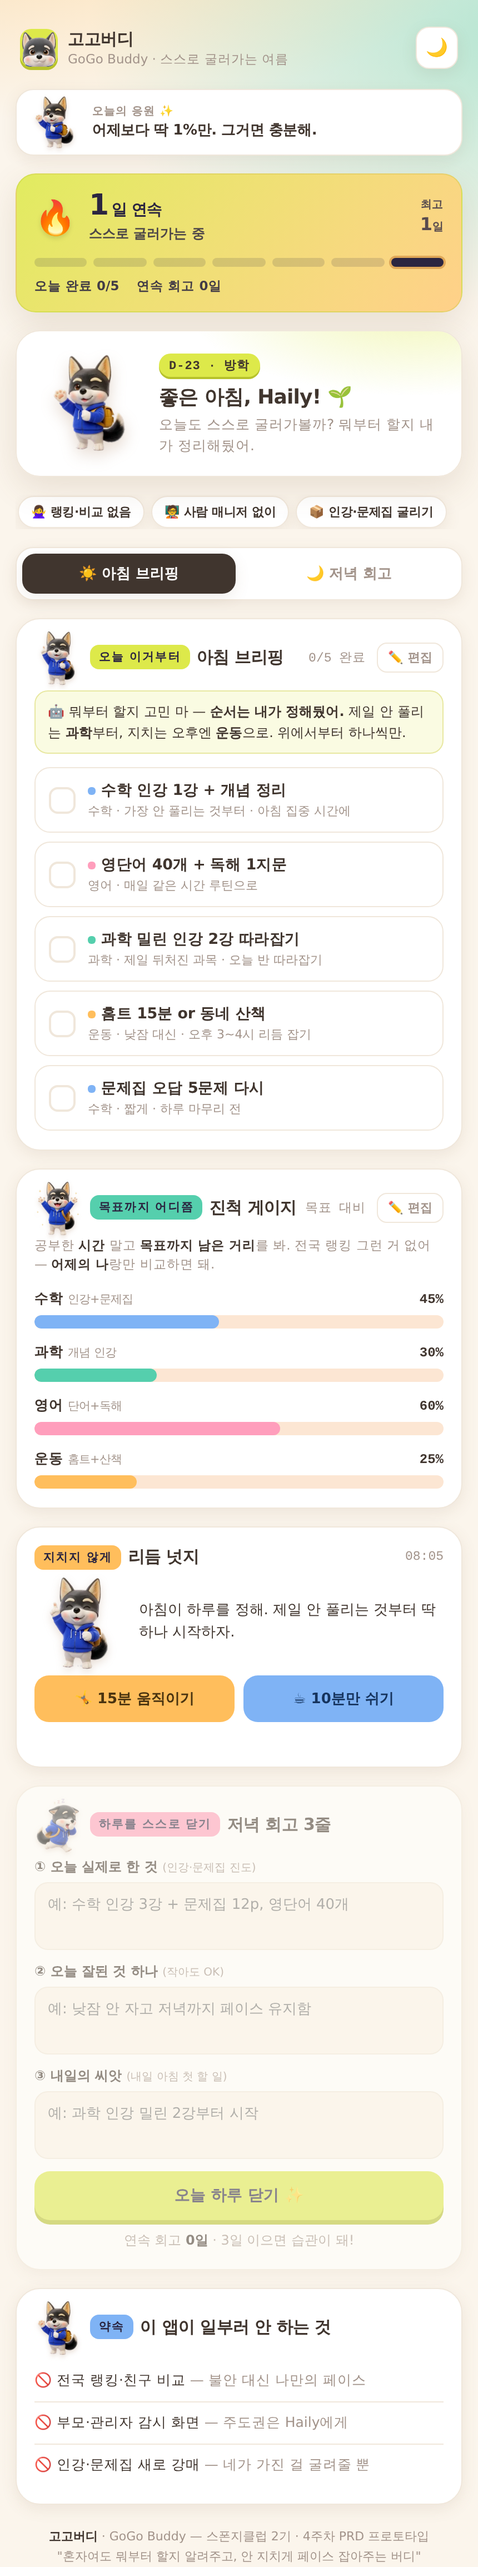
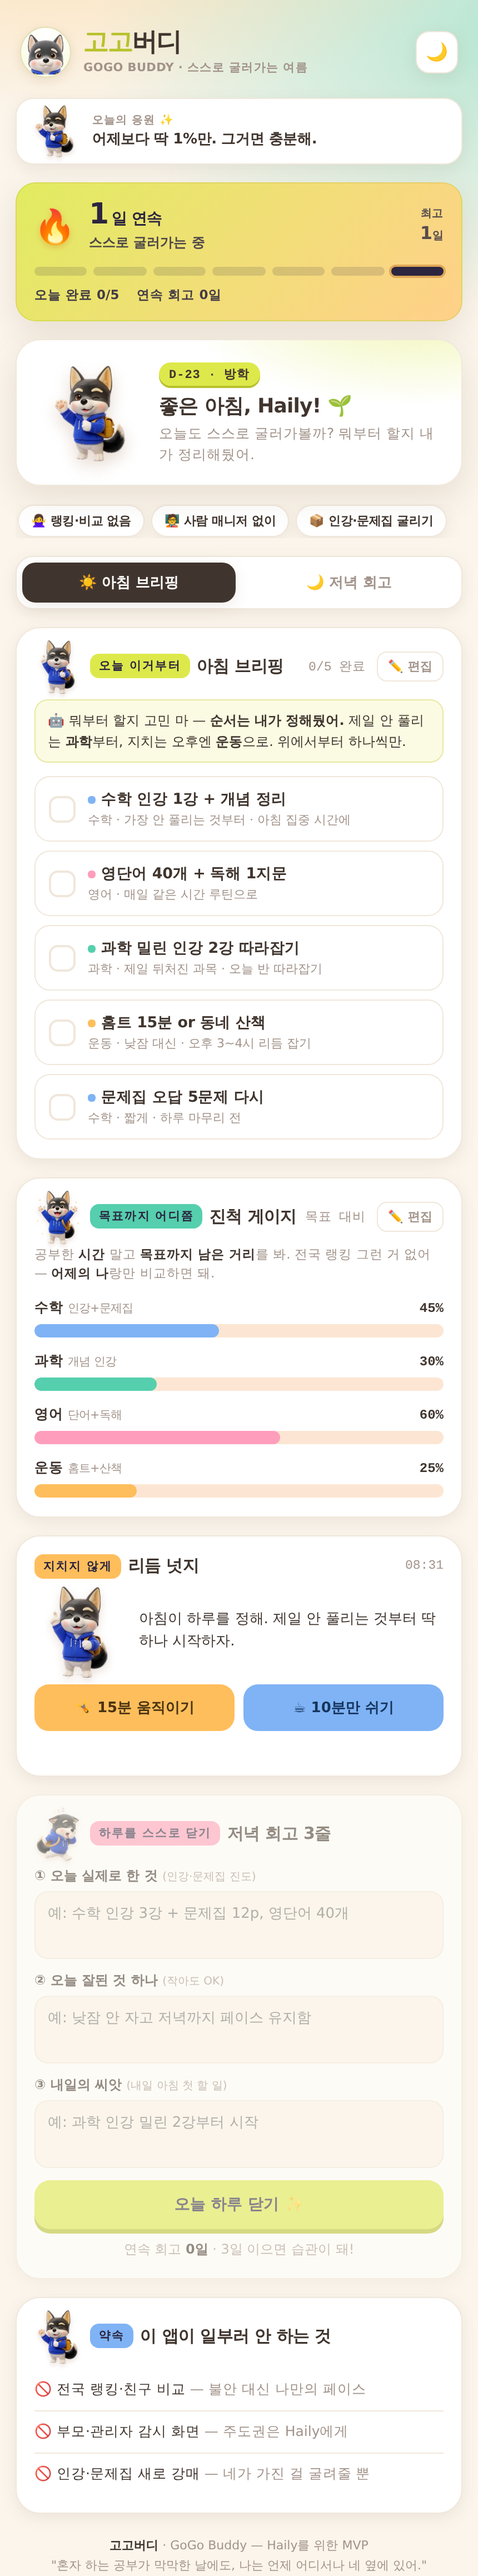
브랜드 헤더 개편 · 스트릭 불꽃 애니메이션 · 푸터 문구 수정
- 연두색 타일 로고 제거 → 원형 아바타 + 23px 워드마크(고고=액센트 두 톤)로 서비스명 강조
- 스트릭 카드의 불꽃에 flicker 애니메이션(크기·회전·발광) 추가
- 푸터를 'Haily를 위한 MVP'로 바꾸고 응원 문구 교체

Claude-Session: https://claude.ai/code/session_01Aq5fCgQTr2L5UhckyziSbp

diff --git a/1_mission/6조/웃는돌(장경아)/4주차 과제 제출 폴더/haily-vacation-buddy.html b/1_mission/6조/웃는돌(장경아)/4주차 과제 제출 폴더/haily-vacation-buddy.html
@@ -85,17 +85,24 @@
     justify-content: space-between;
     padding: 2px 4px;
   }
-  .brand { display: flex; align-items: center; gap: 9px; }
+  .brand { display: flex; align-items: center; gap: 11px; }
   .brand .logo {
-    width: 34px; height: 34px; border-radius: 10px; overflow: hidden;
-    background: var(--lime);
+    width: 46px; height: 46px; border-radius: 50%; overflow: hidden; flex: 0 0 auto;
+    background: radial-gradient(120% 120% at 50% 15%, var(--card), color-mix(in srgb, var(--lime) 22%, var(--card)));
+    border: 1px solid color-mix(in srgb, var(--lime-deep) 22%, var(--line));
+    box-shadow: 0 3px 10px rgba(150, 110, 60, .16);
     display: grid; place-items: center;
-    box-shadow: 0 3px 0 var(--lime-deep);
-    font-size: 15px;
   }
-  .brand .logo img { width: 106%; height: 106%; object-fit: contain; display: block; margin-top: 1px; }
-  .brand b { font-size: 15px; letter-spacing: -.2px; }
-  .brand span { color: var(--muted); font-size: 11.5px; display: block; margin-top: 1px; }
+  .brand .logo img { width: 88%; height: 88%; object-fit: contain; display: block; margin-top: 2px; }
+  .brand b {
+    font-size: 23px; font-weight: 900; letter-spacing: -1px; line-height: 1.1;
+    display: block; color: var(--ink);
+  }
+  .brand b i { font-style: normal; color: var(--lime-deep); }
+  .brand span {
+    color: var(--muted); font-size: 10.5px; display: block; margin-top: 3px;
+    letter-spacing: .2px; font-weight: 600;
+  }
   .theme-btn {
     border: 1px solid var(--line); background: var(--card); color: var(--ink);
     width: 38px; height: 38px; border-radius: 12px; cursor: pointer; font-size: 16px;
@@ -376,7 +383,18 @@
     box-shadow: var(--shadow); border: 1px solid color-mix(in srgb, var(--lime-deep) 30%, transparent);
   }
   .sn-top { display: flex; align-items: center; gap: 12px; }
-  .sn-flame { font-size: 30px; filter: drop-shadow(0 2px 2px rgba(0,0,0,.12)); }
+  .sn-flame {
+    font-size: 30px; filter: drop-shadow(0 2px 3px rgba(220, 110, 20, .35));
+    transform-origin: 50% 85%;
+    animation: flicker 1.6s ease-in-out infinite;
+  }
+  @keyframes flicker {
+    0%   { transform: scale(1) rotate(-3deg);   filter: drop-shadow(0 2px 3px rgba(220,110,20,.35)) brightness(1); }
+    22%  { transform: scale(1.11) rotate(2deg);  filter: drop-shadow(0 3px 7px rgba(255,140,30,.55)) brightness(1.12); }
+    45%  { transform: scale(.97) rotate(-2deg);  filter: drop-shadow(0 2px 3px rgba(220,110,20,.30)) brightness(.97); }
+    68%  { transform: scale(1.07) rotate(3deg);  filter: drop-shadow(0 3px 6px rgba(255,150,40,.50)) brightness(1.08); }
+    100% { transform: scale(1) rotate(-3deg);   filter: drop-shadow(0 2px 3px rgba(220,110,20,.35)) brightness(1); }
+  }
   .sn-headline { flex: 1; min-width: 0; }
   .sn-num { font-size: 26px; font-weight: 900; line-height: 1; letter-spacing: -.5px; font-variant-numeric: tabular-nums; }
   .sn-num small { font-size: 14px; font-weight: 800; margin-left: 3px; }
@@ -402,8 +420,8 @@
     <div class="brand">
       <div class="logo"><img id="logoImg" alt="고고버디" /></div>
       <div>
-        <b>고고버디</b>
-        <span>GoGo Buddy · 스스로 굴러가는 여름</span>
+        <b><i>고고</i>버디</b>
+        <span>GOGO BUDDY · 스스로 굴러가는 여름</span>
       </div>
     </div>
     <button class="theme-btn" id="themeBtn" aria-label="테마 전환" title="라이트/다크 전환">🌙</button>
@@ -542,8 +560,8 @@
   </div>
 
   <div class="foot">
-    <b>고고버디</b> · GoGo Buddy — 스폰지클럽 2기 · 4주차 PRD 프로토타입<br>
-    "혼자여도 뭐부터 할지 알려주고, 안 지치게 페이스 잡아주는 버디"
+    <b>고고버디</b> · GoGo Buddy — Haily를 위한 MVP<br>
+    "혼자 하는 공부가 막막한 날에도, 나는 언제 어디서나 네 옆에 있어."
   </div>
 
   <div class="alarm" id="alarm" hidden>
